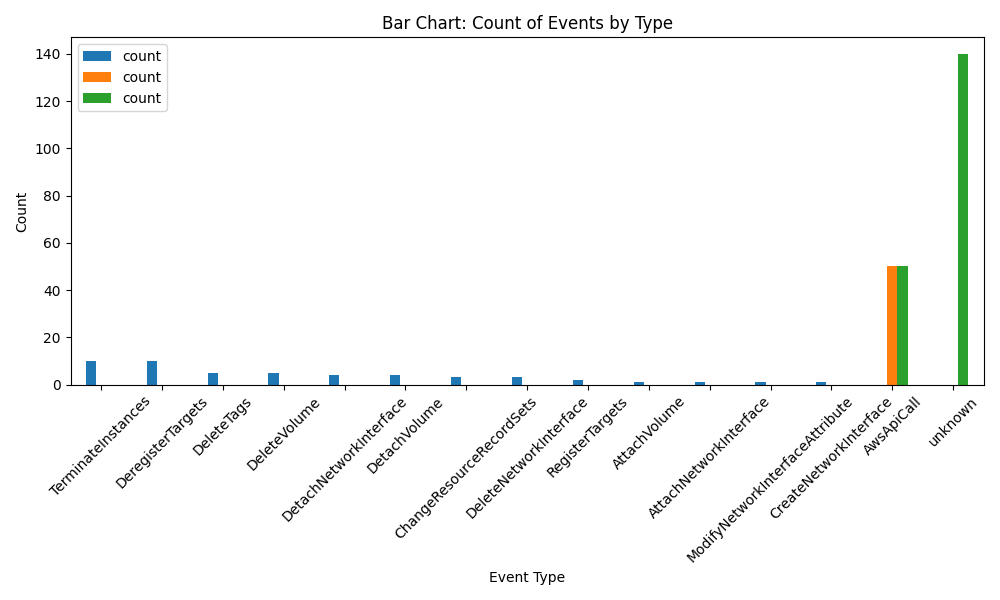
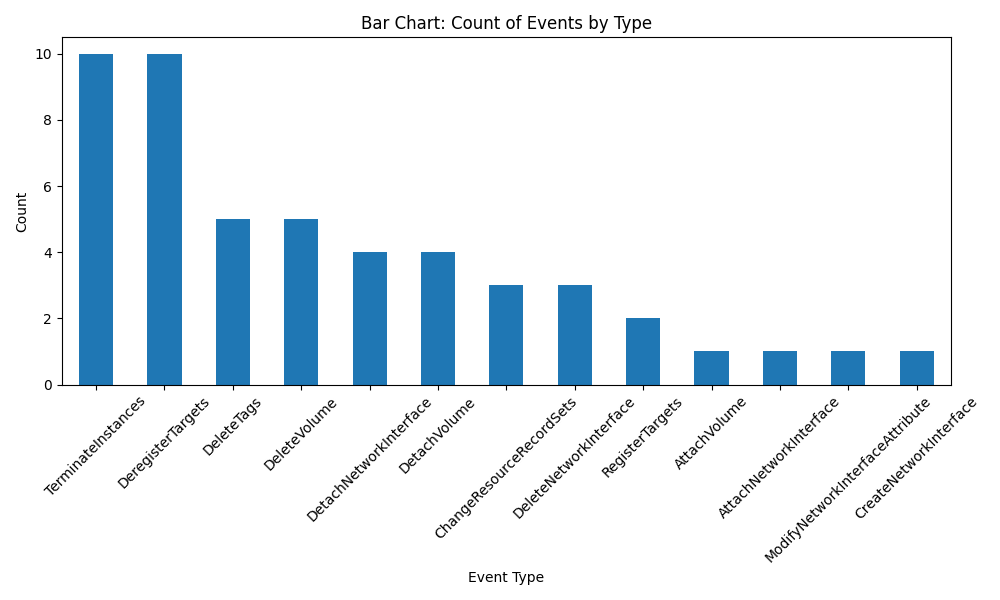
finale-finale version)

diff --git a/modal/pars_modal.py b/modal/pars_modal.py
@@ -12,11 +12,14 @@ __all__ = [
     "parse_file",
 ]
 
+
 def contains_special_chars(text: str) -> bool:
     return any(sym in text for sym in ["{", "[", "(", ":"])
 
+
 def contains_brackets(text: str) -> bool:
     return any(sym in text for sym in ["{", "[", "("])
+
 
 def transform_to_json(fragment: str) -> str:
     account_id = _EVENT_ACCAUNt_ID_RE.match(fragment)
@@ -27,6 +30,7 @@ def transform_to_json(fragment: str) -> str:
         return json.dumps(parsed_dict, default=str)
     except (ValueError, SyntaxError):
         return fragment
+
 
 def find_json_like_structure(text: str) -> Iterable[str]:
     stack: List[int] = []
@@ -42,10 +46,13 @@ def find_json_like_structure(text: str) -> Iterable[str]:
                 if not stack and start >= 0:
                     yield text[start: i + 1]
 
+
 _TUPLE_RE = re.compile(r"([A-Za-z0-9_]+)\((.*?)\)")
+
 
 def _transform_enum(value: Any) -> Any:
     return value[1] if isinstance(value, tuple) and len(value) == 2 else value
+
 
 def _tuple_to_dict(event_data: str) -> dict | str:
     try:
@@ -56,19 +63,23 @@ def _tuple_to_dict(event_data: str) -> dict | str:
     except (ValueError, SyntaxError):
         return event_data
 
+
 def extract_events_tuple(message: str):
     if "(" not in message:
         return []
     events = _TUPLE_RE.findall(message)
     return [{"type": t, "data": _tuple_to_dict(d)} for t, d in events]
 
+
 def extract_events(message: str):
     return extract_events_tuple(message)
+
 
 _EVENT_HEAD_RE = re.compile(r"^(?P<ts>\d{4}-\d{2}-\d{2}T[^Z]+Z)\t.*?event:\s*(?P<body>.*)$")
 _EVENT_PERFOMED_RE = re.compile(r'\bperformed\s+(\w+)\b')
 _EVENT_GENERIC_RE = re.compile(r"^(?P<ts>\d{4}-\d{2}-\d{2}T[^Z]+Z)\t(?P<body>.*)$")
 _EVENT_ACCAUNt_ID_RE = re.compile(r"account_id\s*[:=]\s*['\"]?([\w-]+)['\"]?")
+
 
 def _try_load_json(fragment: str) -> Optional[Dict[str, Any]]:
     try:
@@ -79,45 +90,77 @@ def _try_load_json(fragment: str) -> Optional[Dict[str, Any]]:
         except json.JSONDecodeError:
             return None
 
-def _normalize_ip(event_dict: Dict[str, Any]):
-    if "callerIpAddress" in event_dict and ":" in str(event_dict["callerIpAddress"]):
-        event_dict["callerIpAddress"] = str(event_dict["callerIpAddress"]).split(":")[0]
 
-def parse_line(line: str) -> Optional[Dict[str, Any]]:
-    m = _EVENT_HEAD_RE.match(line)
-    if not m:
-        m = _EVENT_GENERIC_RE.match(line)
-        if not m:
-            return None
-    ts_raw, body = m.group("ts"), m.group("body")
-    event_dict: Optional[Dict[str, Any]] = None
-    if body.lstrip().startswith("{"):
-        event_dict = _try_load_json(body)
-    if not event_dict:
+def parse_new_field(field: str, regex, line, dict) -> Dict[str, Any]:
+    search_field = regex.search(line) if line else None
+    matche_field = search_field.group(1) if search_field else None
+    if matche_field:
+        dict.setdefault(field, matche_field)
+
+
+def _normalize_ip(to_n_dict: Dict[str, Any]):
+    if "callerIpAddress" in to_n_dict and ":" in str(to_n_dict["callerIpAddress"]):
+        to_n_dict["callerIpAddress"] = str(to_n_dict["callerIpAddress"]).split(":")[0]
+
+
+def init_dict(raw_dict, body, ts_raw: str) -> None:
+    if not raw_dict:
         for frag in find_json_like_structure(body):
-            event_dict = _try_load_json(frag)
-            if event_dict:
+            raw_dict = _try_load_json(frag)
+            if raw_dict:
                 break
-    if not event_dict:
+    if not raw_dict:
         tuples = extract_events_tuple(body)
         if tuples:
             tup = tuples[0]
             if isinstance(tup, dict) and isinstance(tup.get("data"), dict):
-                event_dict = tup["data"]
-                event_dict.setdefault("eventType", tup.get("type"))
-    if not event_dict:
+                raw_dict = tup["data"]
+                raw_dict.setdefault("eventType", tup.get("type"))
+    if not raw_dict:
         return None
-    event_dict.setdefault("time_global", ts_raw)
-    account_match = _EVENT_ACCAUNt_ID_RE.search(line) if line else None
-    account_id = account_match.group(1) if account_match else None
-    if account_id:
-        event_dict.setdefault("account_id", account_id)
-    perfomed_match = _EVENT_PERFOMED_RE.search(line) if line else None
-    perfomed_event = perfomed_match.group(1) if perfomed_match else None
-    if perfomed_event:
-        event_dict.setdefault("eventTypePerformed", perfomed_event)
-    _normalize_ip(event_dict)
-    return event_dict
+    raw_dict.setdefault("time_global", ts_raw)
+
+
+def parse_line(line: str) -> Optional[Dict[str, Any]]:
+    ts_raw, sep, body = line.partition("\t")
+    if not sep:
+        return None
+
+    header, sep2, json_part = body.partition("{")
+    # print(f"header: {header}, sep2: {sep2}, json_part: {json_part}  \n")
+    log_event_dict: Optional[Dict[str, Any]] = None
+
+    if sep2:  # значит, в body был '{'
+        candidate = sep2 + json_part
+        log_event_dict = _try_load_json(candidate)
+
+    if log_event_dict is None:
+        for frag in find_json_like_structure(body):
+            log_event_dict = _try_load_json(frag)
+            if log_event_dict:
+                break
+
+    if log_event_dict is None:
+        tuples = extract_events_tuple(body)
+        if tuples:
+            first = tuples[0]
+            if isinstance(first, dict) and isinstance(first.get("data"), dict):
+                log_event_dict = first["data"]
+                log_event_dict.setdefault("eventType", first["type"])
+
+    if log_event_dict is None:
+        return None
+
+    parse_new_field("account_id", _EVENT_ACCAUNt_ID_RE, line, log_event_dict)
+
+    parse_new_field("eventTypePerformed", _EVENT_PERFOMED_RE, line, log_event_dict)
+
+    log_event_dict.setdefault("log_time", ts_raw.strip())
+    log_event_dict.setdefault("log_header", header.strip())
+
+
+    _normalize_ip(log_event_dict)
+    return log_event_dict
 
 
 def parse_file(path: str | Path) -> Iterator[Dict[str, Any]]:
@@ -125,6 +168,7 @@ def parse_file(path: str | Path) -> Iterator[Dict[str, Any]]:
         for line in fh:
             if (ev := parse_line(line.rstrip("\n"))):
                 yield ev
+
 
 if __name__ == "__main__":
     samples = [

diff --git a/dto/main.py b/dto/main.py
@@ -3,26 +3,31 @@ from pathlib import Path
 import pandas as pd
 from typing import Dict
 
-def pandas_counter(pa):
+
+def pandas_counter_event(pa):
     if "eventTypePerformed" in pa.columns:
-        perfm_ev_count = pa["eventTypePerformed"].value_counts().to_frame()
-    else:
-        perfm_ev_count = pd.DataFrame()
-    if "eventType" in pa.columns:
-        ty_ev_count = pa["eventType"].value_counts().to_frame()
-        unknown_events = pa["eventType"].fillna("unknown").value_counts().to_frame()
-    else:
-        ty_ev_count = pd.DataFrame()
-        unknown_events = pd.DataFrame()
-    res_coun_ev = pd.concat([perfm_ev_count, ty_ev_count, unknown_events], axis=1).fillna(0).astype(int)
-    return res_coun_ev
+        perfm_ev_count = pa["eventTypePerformed"].value_counts().dropna()
+
+    return perfm_ev_count
+
+
+def all_performed_ve(pa):
+    if "eventTypePerformed" in pa.columns:
+        matches = pa["eventTypePerformed"].dropna()
+        json_expanded = pa
+        subset = json_expanded[
+            ['log_time', 'time', 'log_header', 'resourceId', 'operationName', 'account_id', 'eventTypePerformed']]
+
+    return matches
+
 
 def avareng_event_time(pa):
-    if "durationMs" in pa.columns:
-        _ = pa["durationMs"].mean()
+    # if "durationMs" in pa.columns:
+    #     _ = pa["durationMs"].mean()
     if "serverLatencyMs" in pa.columns:
-        latency_avg = pa.groupby("eventType")["serverLatencyMs"].mean().sort_values(ascending=False)
+        latency_avg = pa.groupby("eventTypePerformed")["serverLatencyMs"].mean().sort_values(ascending=False)
         return latency_avg
+
 
 def top_server_event(pa):
     if "callerIpAddress" in pa.columns:
@@ -31,22 +36,22 @@ def top_server_event(pa):
     else:
         return None
 
+
 def events_duration(pa):
-    if "time" in pa.columns:
-        end_time = pd.to_datetime(pa["time"], utc=True)
-    elif "eventTime" in pa.columns:
-        end_time = pd.to_datetime(pa["eventTime"], utc=True)
+    if "log_time" in pa.columns:
+        start_time = pd.to_datetime(pa["log_time"], utc=True)
     else:
         raise ValueError("Не найден столбец времени начала ('time' или 'eventTime').")
 
-    if "time_global" in pa.columns:
-        start_time = pd.to_datetime(pa["time_global"], utc=True)
+    if "eventTime" in pa.columns:
+        end_time = pd.to_datetime(pa["eventTime"], utc=True)
     else:
         raise ValueError("Не найден столбец времени конца ('timestamp').")
 
     duration_seconds = (start_time - end_time).dt.total_seconds()
 
-    return duration_seconds
+    return duration_seconds.dropna()
+
 
 def pandas_sorted_by_serv_or_acc(pa):
     results = {}
@@ -59,7 +64,7 @@ def pandas_sorted_by_serv_or_acc(pa):
     if len(results) == 1:
         single_key = list(results.keys())[0]
         return next(iter(results.values())).to_frame()
-    combined_df = pd.concat(results, axis=1).fillna(0).astype(int)
+    combined_df = pd.concat(results, axis=1).fillna(0).astype(int).dropna()
     return combined_df
 
 
@@ -93,10 +98,15 @@ def slow_or_faild_events(pa):
 def main():
     log_path = Path(r"D:\Program Files (x86)\PyProject\QA_TestAssignment\testLogs\changes_output.txt")
     pa = pd.DataFrame(parse_file(log_path))
-    pandas_counter(pa)
-    avareng_event_time(pa)
-    top_server_event(pa).head()
-    slow_or_faild_events(pa)
-
+    pd.set_option('display.max_columns', None)
+    pd.set_option('display.max_rows', None)
+    pd.set_option('display.max_colwidth', None)
+    pd.set_option('display.width', None)
+    # print(pandas_counter_event(pa))
+    all_performed_ve(pa)
+    # avareng_event_time(pa)
+    # top_server_event(pa).head()
+    # slow_or_faild_events(pa)
+    print(events_duration(pa))
 if __name__ == "__main__":
     main()

diff --git a/visualizer.py b/visualizer.py
@@ -2,7 +2,7 @@ from pathlib import Path
 from typing import Dict
 import pandas as pd
 import matplotlib.pyplot as plt
-from dto.main import pandas_counter, pandas_sorted_by_serv_or_acc, events_duration
+from dto.main import pandas_counter_event, pandas_sorted_by_serv_or_acc, events_duration
 from modal.pars_modal import parse_file
 
 def plot_event_counts(counts, download_path):
@@ -61,7 +61,7 @@ def plot_latency_duration_line_chart(durat, download_path):
 def main() -> None:
     log_path = Path(r"D:\Program Files (x86)\PyProject\QA_TestAssignment\testLogs\changes_output.txt")
     pa = pd.DataFrame(parse_file(log_path))
-    event_counts = pandas_counter(pa)
+    event_counts = pandas_counter_event(pa)
     serverIP_ID = pandas_sorted_by_serv_or_acc(pa)
     durations = events_duration(pa)
     download_path_bar = "bar_chart.png"
